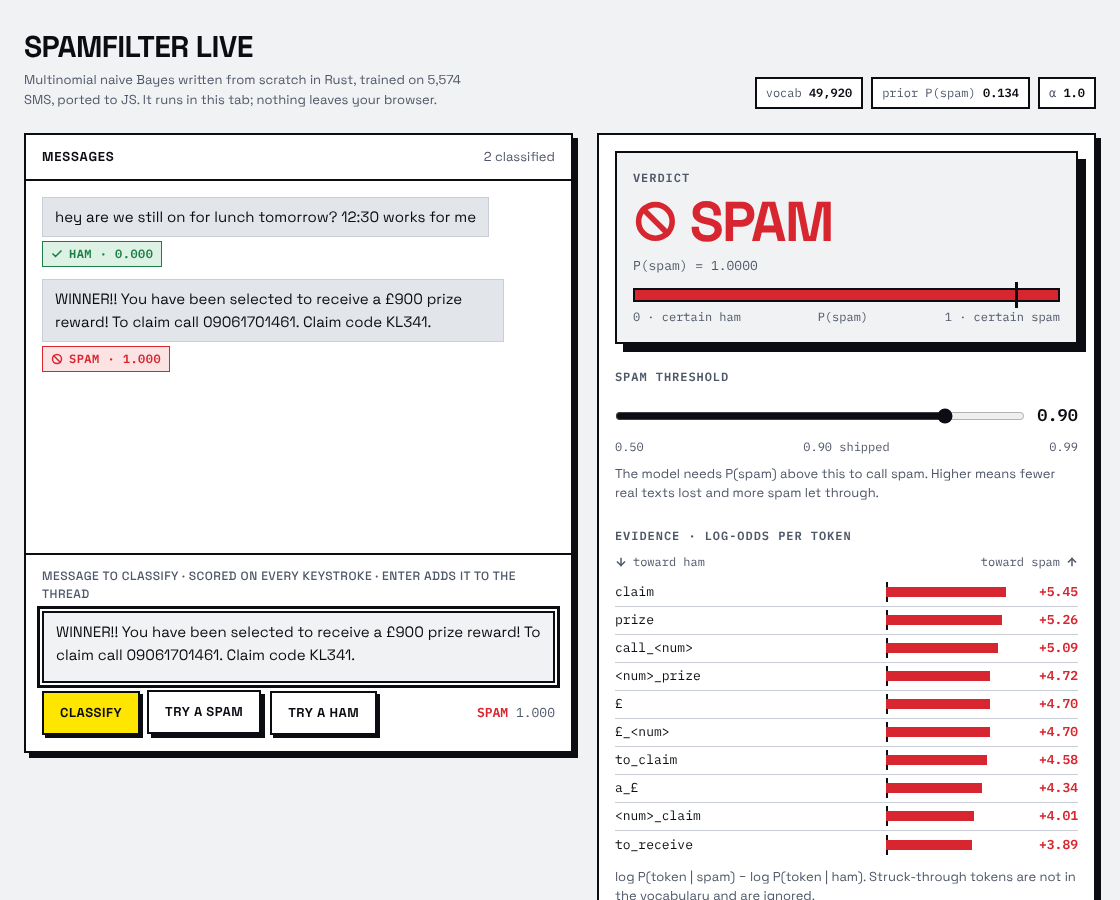
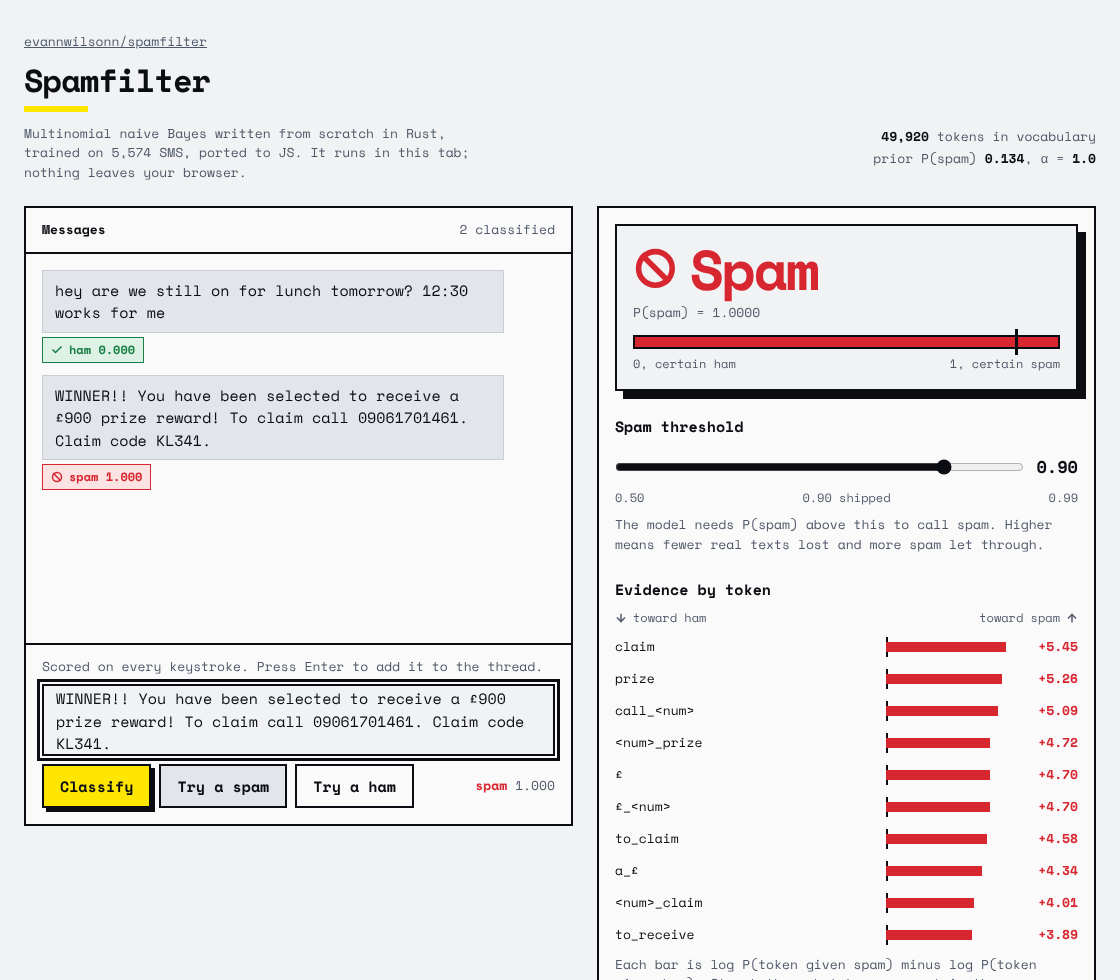
Restyle browser demo, add project thumbnail
Claude-Session: https://claude.ai/code/session_01TFuU64QYeKUCbBzcP7UJKd

Changed region(s): [[0.0, 0.0311, 1.0, 1.0]]

diff --git a/docs/index.html b/docs/index.html
@@ -4,129 +4,106 @@
 <meta charset="utf-8">
 <meta name="viewport" content="width=device-width, initial-scale=1">
 <title>Spamfilter Live</title>
-<link rel="stylesheet" href="https://fonts.googleapis.com/css2?family=Space+Grotesk:wght@400;500;600;700&family=IBM+Plex+Mono:wght@400;500;600&display=swap">
+<link rel="stylesheet" href="https://fonts.googleapis.com/css2?family=Space+Mono:wght@400;700&display=swap">
 <style>
-/* Theme: precise, blunt, instrument. Safe base (slate neutrals, 4px grid, one accent, mono data)
-   with neubrutalist chrome on the verdict, composer and primary controls only: 2px ink borders,
-   hard zero-blur offset shadows, square corners, oversized display type. Data rows stay quiet.
+/* Brutalist Raw: Space Mono end to end, slate paper, ink borders. One accent (yellow). Red is the spam verdict only.
+   Hard offset shadow appears on exactly two things: the verdict box and the primary button.
    Layout: thread left, reasoning right, measurement below; stacks at 800px. */
 :root {
-  /* Palette (OKLCH-derived, hue 250 neutrals) */
-  --bg: #F1F2F4;          /* neutral-5 */
-  --fg: #0B0D12;          /* neutral-100, also the brutalist ink */
-  --card: #FFFFFF;
-  --muted: #E2E5EA;       /* neutral-15 */
-  --muted-fg: #4F5868;    /* 6.6:1 on --bg */
-  --line: #C9CED6;        /* quiet borders for data rows */
-  --ink: #0B0D12;         /* brutalist borders + shadows */
-  --accent: #FFE600;      /* one pop, used only for the primary action */
-  --on-accent: #0B0D12;
-  --spam: #D7262F;        /* 5.2:1 on white */
-  --spam-soft: #FBE3E4;
-  --ham: #1B7F45;         /* 5.1:1 on white */
-  --ham-soft: #DDF2E5;
-  --ring: #0B0D12;
-  /* Type: Space Grotesk (display + UI), IBM Plex Mono (data). Hand-picked scale. */
-  --font-ui: "Space Grotesk", "Helvetica Neue", Arial, sans-serif;
-  --font-mono: "IBM Plex Mono", ui-monospace, SFMono-Regular, Menlo, monospace;
-  --t-xs: 12px; --t-sm: 13px; --t-base: 15px; --t-md: 17px; --t-lg: 22px; --t-xl: 30px; --t-2xl: clamp(40px, 6vw, 56px);
-  /* Space: 4px base */
+  --bg: #F1F2F4; --fg: #0B0D12; --card: #FAFAFB; --muted: #E2E5EA; --muted-fg: #4F5868; --line: #C9CED6;
+  --ink: #0B0D12; --accent: #FFE600; --on-accent: #0B0D12;
+  --spam: #D7262F; --spam-soft: #FBE3E4; --ham: #1B7F45; --ham-soft: #DDF2E5; --ring: #0B0D12;
+  --mono: "Space Mono", "Courier New", ui-monospace, monospace;
+  --t-xs: 12px; --t-sm: 13px; --t-base: 15px; --t-md: 17px; --t-lg: 22px; --t-xl: 32px; --t-2xl: clamp(40px, 6vw, 56px);
   --s1: 4px; --s2: 8px; --s3: 12px; --s4: 16px; --s5: 20px; --s6: 24px; --s8: 32px;
-  --shadow-card: 5px 5px 0 0 var(--ink);
-  --shadow-btn: 3px 3px 0 0 var(--ink);
-  --shadow-hero: 8px 8px 0 0 var(--ink);
+  --shadow-hero: 8px 8px 0 0 var(--ink); --shadow-btn: 4px 4px 0 0 var(--ink);
   color-scheme: light;
 }
 @media (prefers-color-scheme: dark) {
   :root:not([data-theme="light"]) {
     --bg: #0B0D12; --fg: #F1F2F4; --card: #151821; --muted: #20242F; --muted-fg: #A6AEBD; --line: #2E3442;
-    --ink: #F1F2F4; --accent: #FFE600; --on-accent: #0B0D12;
-    --spam: #FF6B6F; --spam-soft: #3A1A1D; --ham: #4ADE80; --ham-soft: #153224; --ring: #F1F2F4;
+    --ink: #F1F2F4; --spam: #FF6B6F; --spam-soft: #3A1A1D; --ham: #4ADE80; --ham-soft: #153224; --ring: #F1F2F4;
     color-scheme: dark;
   }
 }
 :root[data-theme="dark"] {
   --bg: #0B0D12; --fg: #F1F2F4; --card: #151821; --muted: #20242F; --muted-fg: #A6AEBD; --line: #2E3442;
-  --ink: #F1F2F4; --accent: #FFE600; --on-accent: #0B0D12;
-  --spam: #FF6B6F; --spam-soft: #3A1A1D; --ham: #4ADE80; --ham-soft: #153224; --ring: #F1F2F4;
+  --ink: #F1F2F4; --spam: #FF6B6F; --spam-soft: #3A1A1D; --ham: #4ADE80; --ham-soft: #153224; --ring: #F1F2F4;
   color-scheme: dark;
 }
 * { box-sizing: border-box; }
 [hidden] { display: none !important; }
-body { background: var(--bg); color: var(--fg); font-family: var(--font-ui); font-size: var(--t-base); line-height: 1.5; }
+body { background: var(--bg); color: var(--fg); font-family: var(--mono); font-size: var(--t-base); line-height: 1.5; }
 :focus-visible { outline: 3px solid var(--ring); outline-offset: 2px; }
+a { color: inherit; }
 .wrap { max-width: 1120px; margin: 0 auto; padding-block: var(--s6) var(--s8); padding-inline: var(--s4); }
 
-/* Header */
 .top { display: flex; flex-wrap: wrap; align-items: flex-end; justify-content: space-between; gap: var(--s3) var(--s6); margin-bottom: var(--s6); }
-h1 { font-size: var(--t-xl); margin: 0; font-weight: 700; letter-spacing: -0.02em; line-height: 1; text-transform: uppercase; }
-.sub { margin: var(--s2) 0 0; font-size: var(--t-sm); color: var(--muted-fg); max-width: 56ch; }
-.facts { display: flex; flex-wrap: wrap; gap: var(--s2); font-family: var(--font-mono); font-size: var(--t-xs); }
-.facts span { padding: 5px 9px; border: 2px solid var(--ink); background: var(--card); color: var(--muted-fg); white-space: nowrap; }
-.facts b { color: var(--fg); font-weight: 600; }
+.repo { font-size: var(--t-sm); color: var(--muted-fg); margin: 0 0 var(--s3); }
+h1 { font-size: var(--t-xl); margin: 0; font-weight: 700; letter-spacing: -0.03em; line-height: 1; }
+h1::after { content: ""; display: block; width: 64px; height: 6px; background: var(--accent); margin-top: 10px; }
+.sub { margin: var(--s3) 0 0; font-size: var(--t-sm); color: var(--muted-fg); max-width: 60ch; }
+.facts { font-size: var(--t-sm); color: var(--muted-fg); line-height: 1.7; text-align: right; }
+.facts b { color: var(--fg); font-weight: 700; }
+@media (max-width: 800px) { .facts { text-align: left; } }
 
-/* Panels: brutalist frame, quiet inside */
 .grid { display: grid; grid-template-columns: minmax(0, 1.1fr) minmax(0, 1fr); gap: var(--s6); }
 @media (max-width: 800px) { .grid { grid-template-columns: 1fr; } }
-.panel { background: var(--card); border: 2px solid var(--ink); box-shadow: var(--shadow-card); min-width: 0; }
+.panel { background: var(--card); border: 2px solid var(--ink); min-width: 0; }
 .panel-head { display: flex; justify-content: space-between; align-items: center; padding: var(--s3) var(--s4); border-bottom: 2px solid var(--ink); font-size: var(--t-sm); color: var(--muted-fg); }
-.panel-head b { color: var(--fg); font-weight: 700; font-size: var(--t-sm); letter-spacing: .06em; text-transform: uppercase; }
+.panel-head b { color: var(--fg); font-weight: 700; }
 
-/* Thread */
 .thread { display: flex; flex-direction: column; height: 620px; }
 .msgs { flex: 1; overflow-y: auto; padding: var(--s4); display: flex; flex-direction: column; gap: var(--s3); }
 .msg { max-width: 90%; align-self: flex-start; }
 .msg button { all: unset; cursor: pointer; display: grid; gap: var(--s1); }
 .msg button:focus-visible { outline: 3px solid var(--ring); outline-offset: 3px; }
-.bubble { background: var(--muted); padding: var(--s2) var(--s3); border: 1px solid var(--line); overflow-wrap: anywhere; font-size: var(--t-base); }
+.bubble { background: var(--muted); padding: var(--s2) var(--s3); border: 1px solid var(--line); overflow-wrap: anywhere; }
 .msg button:hover .bubble { border-color: var(--ink); }
-.msg.active .bubble { border: 2px solid var(--ink); box-shadow: var(--shadow-btn); }
-.verdict { display: inline-flex; align-items: center; gap: 6px; font-family: var(--font-mono); font-size: var(--t-xs); font-weight: 600; padding: 3px 8px; border: 1px solid currentColor; width: max-content; text-transform: uppercase; letter-spacing: .04em; }
+.msg.active .bubble { border: 2px solid var(--ink); }
+.verdict { display: inline-flex; align-items: center; gap: 6px; font-size: var(--t-xs); font-weight: 700; padding: 3px 8px; border: 1px solid currentColor; width: max-content; }
 .verdict.spam { background: var(--spam-soft); color: var(--spam); }
 .verdict.ham { background: var(--ham-soft); color: var(--ham); }
 .verdict svg { width: 12px; height: 12px; }
 
-/* Composer: brutalist */
 .compose { border-top: 2px solid var(--ink); padding: var(--s3) var(--s4) var(--s4); display: grid; gap: var(--s2); }
-label.vis { font-size: var(--t-xs); color: var(--muted-fg); font-weight: 500; letter-spacing: .04em; text-transform: uppercase; }
-textarea { width: 100%; resize: none; min-height: 72px; padding: var(--s2) var(--s3); border: 2px solid var(--ink); background: var(--bg); color: var(--fg); font: inherit; font-size: var(--t-base); }
+label.vis { font-size: var(--t-sm); color: var(--muted-fg); }
+textarea { width: 100%; resize: none; min-height: 72px; padding: var(--s2) var(--s3); border: 2px solid var(--ink); background: var(--bg); color: var(--fg); font: inherit; }
 textarea:focus-visible { outline: 3px solid var(--ring); outline-offset: 2px; }
 .row { display: flex; gap: var(--s2); flex-wrap: wrap; align-items: center; }
-.btn { font: inherit; font-size: var(--t-sm); font-weight: 700; min-height: 44px; padding: 0 var(--s4); border: 2px solid var(--ink); background: var(--card); color: var(--fg); cursor: pointer; box-shadow: var(--shadow-btn); text-transform: uppercase; letter-spacing: .04em; transition: transform 100ms ease, box-shadow 100ms ease; }
-.btn.primary { background: var(--accent); color: var(--on-accent); }
-.btn:hover { transform: translate(-1px, -1px); box-shadow: 4px 4px 0 0 var(--ink); }
-.btn:active { transform: translate(3px, 3px); box-shadow: 0 0 0 0 var(--ink); }
+.btn { font: inherit; font-weight: 700; min-height: 44px; padding: 0 var(--s4); border: 2px solid var(--ink); background: var(--card); color: var(--fg); cursor: pointer; transition: transform 100ms ease, box-shadow 100ms ease, background-color 100ms ease; }
+.btn:hover { background: var(--muted); }
+.btn.primary { background: var(--accent); color: var(--on-accent); box-shadow: var(--shadow-btn); }
+.btn.primary:hover { background: var(--accent); transform: translate(-1px, -1px); box-shadow: 5px 5px 0 0 var(--ink); }
+.btn.primary:active { transform: translate(4px, 4px); box-shadow: 0 0 0 0 var(--ink); }
 .btn:focus-visible { outline: 3px solid var(--ring); outline-offset: 3px; }
-.live { margin-left: auto; font-family: var(--font-mono); font-size: var(--t-sm); color: var(--muted-fg); }
-.live b { font-weight: 600; text-transform: uppercase; }
+.live { margin-left: auto; font-size: var(--t-sm); color: var(--muted-fg); }
+.live b { font-weight: 700; }
 .live b.spam { color: var(--spam); } .live b.ham { color: var(--ham); }
 
-/* Reasoning */
 .why { padding: var(--s4); display: grid; gap: var(--s6); align-content: start; }
-h2 { font-family: var(--font-mono); font-size: var(--t-xs); letter-spacing: 0.08em; text-transform: uppercase; color: var(--muted-fg); margin: 0 0 var(--s2); font-weight: 600; }
+h2 { font-size: var(--t-base); color: var(--fg); margin: 0 0 var(--s2); font-weight: 700; }
 .hero { border: 2px solid var(--ink); box-shadow: var(--shadow-hero); padding: var(--s4); background: var(--bg); }
-.hero .label { font-size: var(--t-2xl); font-weight: 700; letter-spacing: -0.03em; line-height: .95; display: flex; align-items: center; gap: var(--s3); text-transform: uppercase; }
+.hero .label { font-size: var(--t-2xl); font-weight: 700; letter-spacing: -0.04em; line-height: .95; display: flex; align-items: center; gap: var(--s3); }
 .hero .label svg { width: .8em; height: .8em; flex: none; }
 .hero .label.spam { color: var(--spam); } .hero .label.ham { color: var(--ham); }
-.hero .p { font-family: var(--font-mono); font-size: var(--t-sm); color: var(--muted-fg); margin-top: var(--s2); }
+.hero .p { font-size: var(--t-sm); color: var(--muted-fg); margin-top: var(--s2); }
 .meter { position: relative; height: 14px; background: var(--muted); border: 2px solid var(--ink); margin-top: var(--s3); }
 .meter .fill { height: 100%; background: var(--spam); width: 0; transition: width 150ms ease; }
 .meter .thr { position: absolute; top: -8px; width: 3px; height: 26px; background: var(--ink); }
-.meter-lbl { display: flex; justify-content: space-between; font-family: var(--font-mono); font-size: var(--t-xs); color: var(--muted-fg); margin-top: 6px; }
+.meter-lbl { display: flex; justify-content: space-between; font-size: var(--t-xs); color: var(--muted-fg); margin-top: 6px; }
 
 .thr-row { display: grid; grid-template-columns: 1fr auto; gap: var(--s3); align-items: center; }
 .thr-row input { width: 100%; min-width: 0; accent-color: var(--ink); height: 44px; margin: 0; }
-.thr-row output { font-family: var(--font-mono); font-size: var(--t-md); font-weight: 600; min-width: 4ch; text-align: right; font-variant-numeric: tabular-nums; }
-.ticks { display: flex; justify-content: space-between; font-family: var(--font-mono); font-size: var(--t-xs); color: var(--muted-fg); }
+.thr-row output { font-size: var(--t-md); font-weight: 700; min-width: 4ch; text-align: right; font-variant-numeric: tabular-nums; }
+.ticks { display: flex; justify-content: space-between; font-size: var(--t-xs); color: var(--muted-fg); }
 .hint { margin: var(--s2) 0 0; font-size: var(--t-sm); color: var(--muted-fg); max-width: 60ch; }
 
-/* Evidence: quiet data rows */
-.ev-key { display: flex; justify-content: space-between; font-family: var(--font-mono); font-size: var(--t-xs); color: var(--muted-fg); margin-bottom: var(--s2); }
+.ev-key { display: flex; justify-content: space-between; font-size: var(--t-xs); color: var(--muted-fg); margin-bottom: var(--s2); }
 .ev-key span { display: inline-flex; align-items: center; gap: 6px; }
 .ev-key svg { width: 12px; height: 12px; }
-.ev { display: grid; font-family: var(--font-mono); font-size: var(--t-sm); }
-.ev-row { display: grid; grid-template-columns: minmax(0, 140px) 1fr 60px; align-items: center; gap: var(--s3); min-height: 28px; border-bottom: 1px solid var(--line); }
-.ev-row:last-child { border-bottom: 0; }
+.ev { display: grid; gap: var(--s2); font-size: var(--t-sm); }
+.ev-row { display: grid; grid-template-columns: minmax(0, 140px) 1fr 60px; align-items: center; gap: var(--s3); min-height: 24px; }
 .ev-row .tok { overflow: hidden; text-overflow: ellipsis; white-space: nowrap; }
 .ev-row .tok.oov { color: var(--muted-fg); text-decoration: line-through; }
 .ev-bar { position: relative; height: 12px; }
@@ -134,26 +111,26 @@ h2 { font-family: var(--font-mono); font-size: var(--t-xs); letter-spacing: 0.08
 .ev-bar i { position: absolute; top: 1px; height: 10px; transition: width 150ms ease; }
 .ev-bar i.pos { left: 50%; background: var(--spam); }
 .ev-bar i.neg { right: 50%; background: var(--ham); }
-.ev-row .n { text-align: right; font-variant-numeric: tabular-nums; font-weight: 600; }
+.ev-row .n { text-align: right; font-variant-numeric: tabular-nums; font-weight: 700; }
 .ev-row .n.pos { color: var(--spam); } .ev-row .n.neg { color: var(--ham); }
 .empty { color: var(--muted-fg); font-size: var(--t-sm); }
 details { border-top: 2px solid var(--ink); padding-top: var(--s2); }
-summary { cursor: pointer; font-size: var(--t-sm); font-weight: 600; min-height: 44px; display: flex; align-items: center; gap: var(--s2); text-transform: uppercase; letter-spacing: .04em; }
+summary { cursor: pointer; font-size: var(--t-sm); font-weight: 700; min-height: 44px; display: flex; align-items: center; gap: var(--s2); }
 summary svg { width: 14px; height: 14px; transition: transform 100ms ease; }
 details[open] summary svg { transform: rotate(90deg); }
-.math { font-family: var(--font-mono); font-size: var(--t-xs); line-height: 1.9; margin-top: var(--s2); color: var(--muted-fg); overflow-x: auto; }
-.math b { color: var(--fg); font-weight: 600; }
+.math { font-size: var(--t-xs); line-height: 1.9; margin-top: var(--s2); color: var(--muted-fg); overflow-x: auto; }
+.math b { color: var(--fg); font-weight: 700; }
 
-/* Evaluation */
-.eval { margin-top: var(--s6); padding: var(--s4); }
+.eval { margin-top: var(--s8); }
 .eval p { margin: 0 0 var(--s3); color: var(--muted-fg); font-size: var(--t-sm); max-width: 70ch; }
 .tbl { overflow-x: auto; }
-table { border-collapse: collapse; width: 100%; font-family: var(--font-mono); font-size: var(--t-sm); font-variant-numeric: tabular-nums; }
-th, td { padding: 9px 12px; text-align: right; border-bottom: 1px solid var(--line); white-space: nowrap; }
-th:first-child, td:first-child { text-align: left; font-family: var(--font-ui); font-size: var(--t-base); }
-th { font-weight: 600; color: var(--muted-fg); font-size: var(--t-xs); letter-spacing: .06em; text-transform: uppercase; border-bottom: 2px solid var(--ink); }
-tr.ship td { background: var(--ham-soft); font-weight: 600; }
-tr.ship td:first-child::after { content: "← this page"; font-family: var(--font-mono); font-size: var(--t-xs); color: var(--ham); margin-left: 10px; font-weight: 600; }
+table { border-collapse: collapse; width: 100%; font-size: var(--t-sm); font-variant-numeric: tabular-nums; }
+th, td { padding: 9px 12px; text-align: right; white-space: nowrap; }
+th:first-child, td:first-child { text-align: left; }
+th { font-weight: 400; color: var(--muted-fg); border-bottom: 2px solid var(--ink); }
+tbody tr + tr td { border-top: 1px solid var(--line); }
+tr.ship td { background: var(--ham-soft); font-weight: 700; }
+tr.ship td:first-child::after { content: "shipped"; font-size: var(--t-xs); color: var(--ham); margin-left: 10px; }
 tr.base td { color: var(--muted-fg); }
 @media (prefers-reduced-motion: reduce) { *, *::before, *::after { transition: none !important; } .btn:hover, .btn:active { transform: none; } }
 </style>
@@ -170,14 +147,11 @@ tr.base td { color: var(--muted-fg); }
 <div class="wrap">
   <header class="top">
     <div>
-      <h1>Spamfilter Live</h1>
+      <p class="repo"><a href="https://github.com/evannwilsonn/spamfilter">evannwilsonn/spamfilter</a></p>
+      <h1>Spamfilter</h1>
       <p class="sub">Multinomial naive Bayes written from scratch in Rust, trained on 5,574 SMS, ported to JS. It runs in this tab; nothing leaves your browser.</p>
     </div>
-    <div class="facts" aria-label="Model facts">
-      <span>vocab <b id="s-vocab">–</b></span>
-      <span>prior P(spam) <b id="s-prior">–</b></span>
-      <span>α <b>1.0</b></span>
-    </div>
+    <p class="facts" aria-label="Model facts"><b id="s-vocab">–</b> tokens in vocabulary<br>prior P(spam) <b id="s-prior">–</b>, α = <b>1.0</b></p>
   </header>
 
   <div class="grid">
@@ -185,8 +159,8 @@ tr.base td { color: var(--muted-fg); }
       <div class="panel-head"><b>Messages</b><span id="count" role="status" aria-atomic="true">0 classified</span></div>
       <div class="msgs" id="msgs"></div>
       <form class="compose" id="form">
-        <label class="vis" for="text">Message to classify · scored on every keystroke · Enter adds it to the thread</label>
-        <textarea id="text" placeholder="Type a text message…"></textarea>
+        <label class="vis" for="text">Scored on every keystroke. Press Enter to add it to the thread.</label>
+        <textarea id="text" placeholder="Type a text message"></textarea>
         <div class="row">
           <button class="btn primary" type="submit" id="send">Classify</button>
           <button class="btn" type="button" id="try-spam">Try a spam</button>
@@ -198,11 +172,10 @@ tr.base td { color: var(--muted-fg); }
 
     <section class="panel why" aria-label="Why the model decided this">
       <div class="hero" role="status" aria-atomic="true">
-        <h2>Verdict</h2>
         <div class="label" id="v-label">—</div>
         <div class="p" id="v-p">type something</div>
         <div class="meter" aria-hidden="true"><div class="fill" id="fill"></div><div class="thr" id="thr-mark"></div></div>
-        <div class="meter-lbl" aria-hidden="true"><span>0 · certain ham</span><span>P(spam)</span><span>1 · certain spam</span></div>
+        <div class="meter-lbl" aria-hidden="true"><span>0, certain ham</span><span>1, certain spam</span></div>
       </div>
       <div>
         <h2>Spam threshold</h2>
@@ -214,10 +187,10 @@ tr.base td { color: var(--muted-fg); }
         <p class="hint" id="thr-hint">The model needs P(spam) above this to call spam. Higher means fewer real texts lost and more spam let through.</p>
       </div>
       <div>
-        <h2>Evidence · log-odds per token</h2>
+        <h2>Evidence by token</h2>
         <div class="ev-key" aria-hidden="true"><span><svg><use href="#i-down"/></svg>toward ham</span><span>toward spam<svg><use href="#i-up"/></svg></span></div>
         <div class="ev" id="ev"></div>
-        <p class="hint">log P(token | spam) − log P(token | ham). Struck-through tokens are not in the vocabulary and are ignored.</p>
+        <p class="hint">Each bar is log P(token given spam) minus log P(token given ham). Struck-through tokens are not in the vocabulary and are ignored.</p>
       </div>
       <details>
         <summary><svg aria-hidden="true"><use href="#i-chev"/></svg>Show the arithmetic</summary>
@@ -226,15 +199,15 @@ tr.base td { color: var(--muted-fg); }
     </section>
   </div>
 
-  <section class="panel eval" aria-label="Evaluation">
+  <section class="eval" aria-label="Evaluation">
     <h2>How it was measured</h2>
     <p>Stratified 80/20 split, averaged over 10 random seeds. Spam is the positive class. The from-scratch model matches linfa's MultinomialNb to the confusion cell.</p>
     <div class="tbl"><table>
       <thead><tr><th scope="col">Model</th><th scope="col">Accuracy</th><th scope="col">Precision</th><th scope="col">Recall</th><th scope="col">F1</th><th scope="col">F1 sd</th></tr></thead>
       <tbody>
-        <tr class="base"><td>Majority baseline (always ham)</td><td>0.866</td><td>0.000</td><td>0.000</td><td>0.000</td><td>0.000</td></tr>
+        <tr class="base"><td>Majority baseline, always ham</td><td>0.866</td><td>0.000</td><td>0.000</td><td>0.000</td><td>0.000</td></tr>
         <tr><td>Naive Bayes, unigrams</td><td>0.985</td><td>0.948</td><td>0.942</td><td>0.945</td><td>0.014</td></tr>
-        <tr><td>Naive Bayes, unigrams + bigrams</td><td>0.987</td><td>0.966</td><td>0.938</td><td>0.952</td><td>0.016</td></tr>
+        <tr><td>Naive Bayes, unigrams and bigrams</td><td>0.987</td><td>0.966</td><td>0.938</td><td>0.952</td><td>0.016</td></tr>
         <tr class="ship"><td>Bigrams, threshold 0.90</td><td>0.988</td><td>0.981</td><td>0.931</td><td>0.955</td><td>0.014</td></tr>
         <tr><td>Bigrams, threshold 0.99</td><td>0.989</td><td>0.992</td><td>0.923</td><td>0.956</td><td>0.015</td></tr>
       </tbody>
@@ -328,7 +301,7 @@ tr.base td { color: var(--muted-fg); }
       const spam = m.res.p > threshold, cls = spam ? 'spam' : 'ham';
       return `<div class="msg${i === activeIdx ? ' active' : ''}"><button type="button" data-i="${i}" aria-label="Show reasoning for message ${i + 1}, ${cls}">` +
         `<div class="bubble">${esc(m.text)}</div>` +
-        `<span class="verdict ${cls}">${ICON[cls]}${cls} · ${m.res.p.toFixed(3)}</span>` +
+        `<span class="verdict ${cls}">${ICON[cls]}${cls} ${m.res.p.toFixed(3)}</span>` +
         `</button></div>`;
     }).join('');
     $('count').textContent = msgs.length + ' classified';
